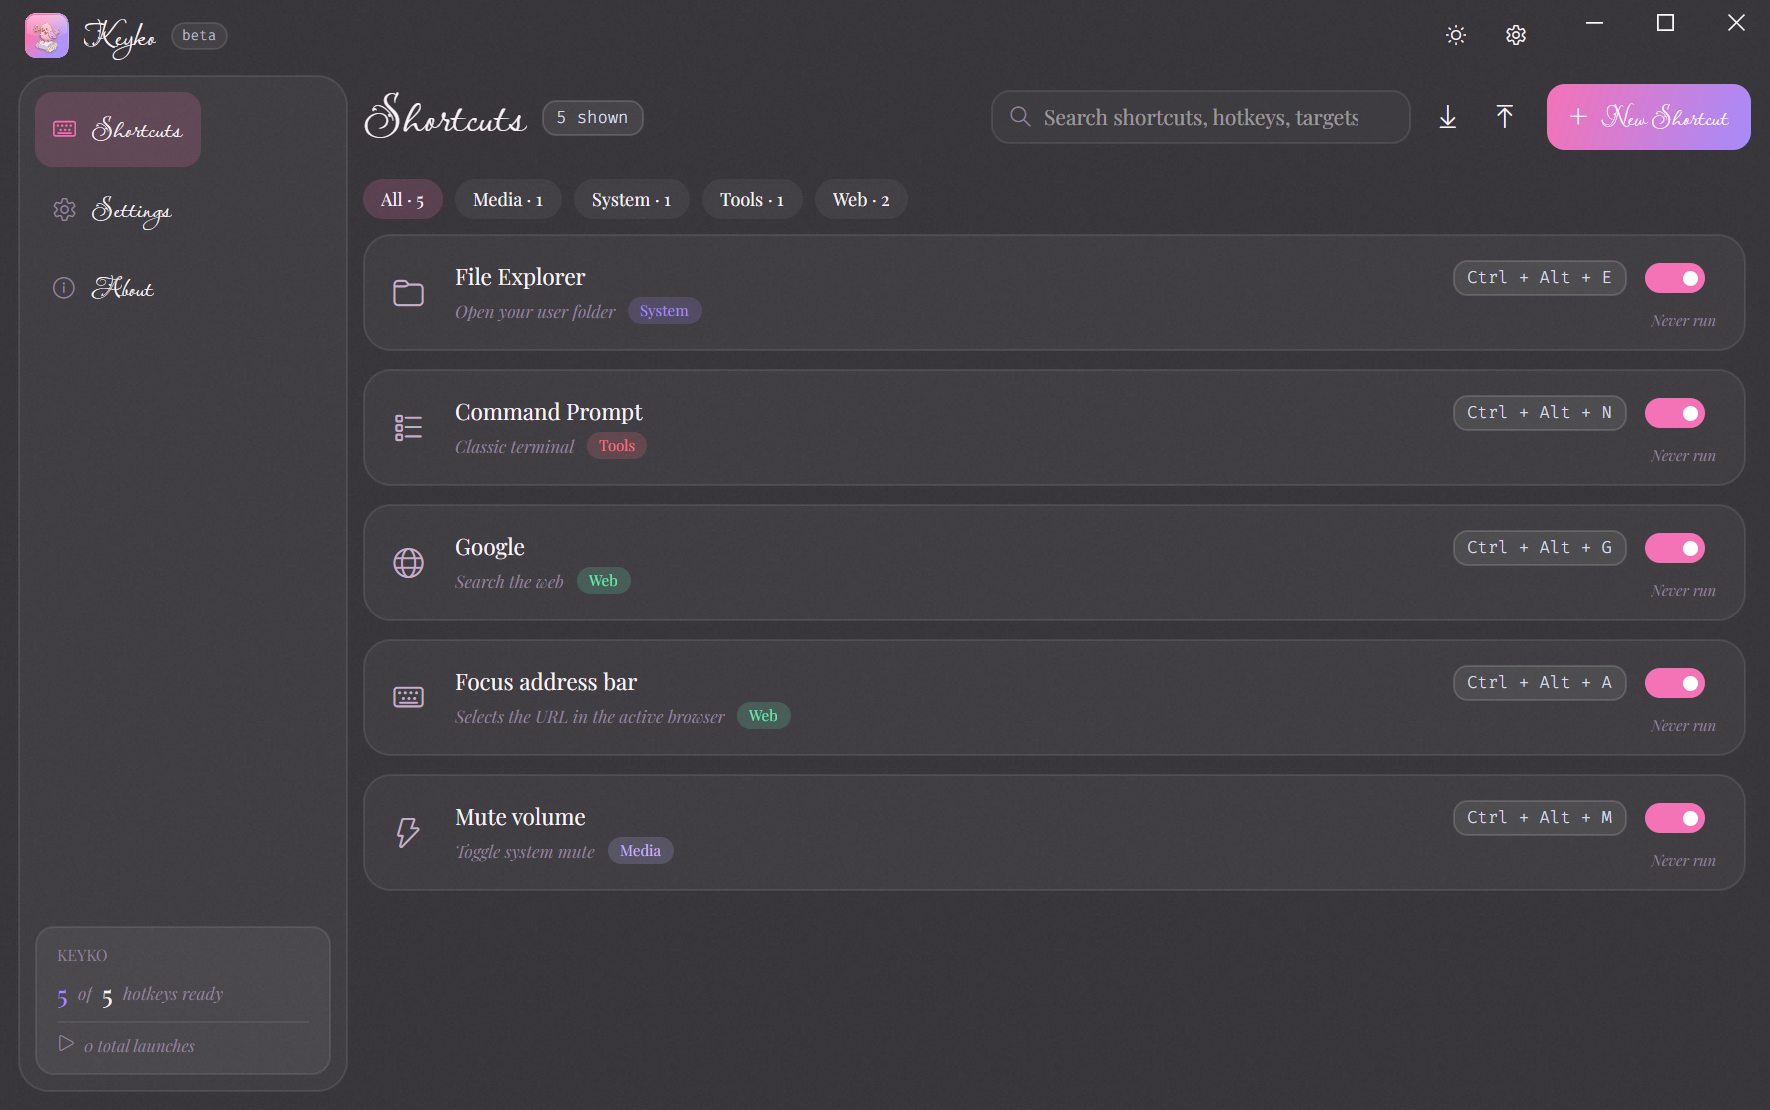
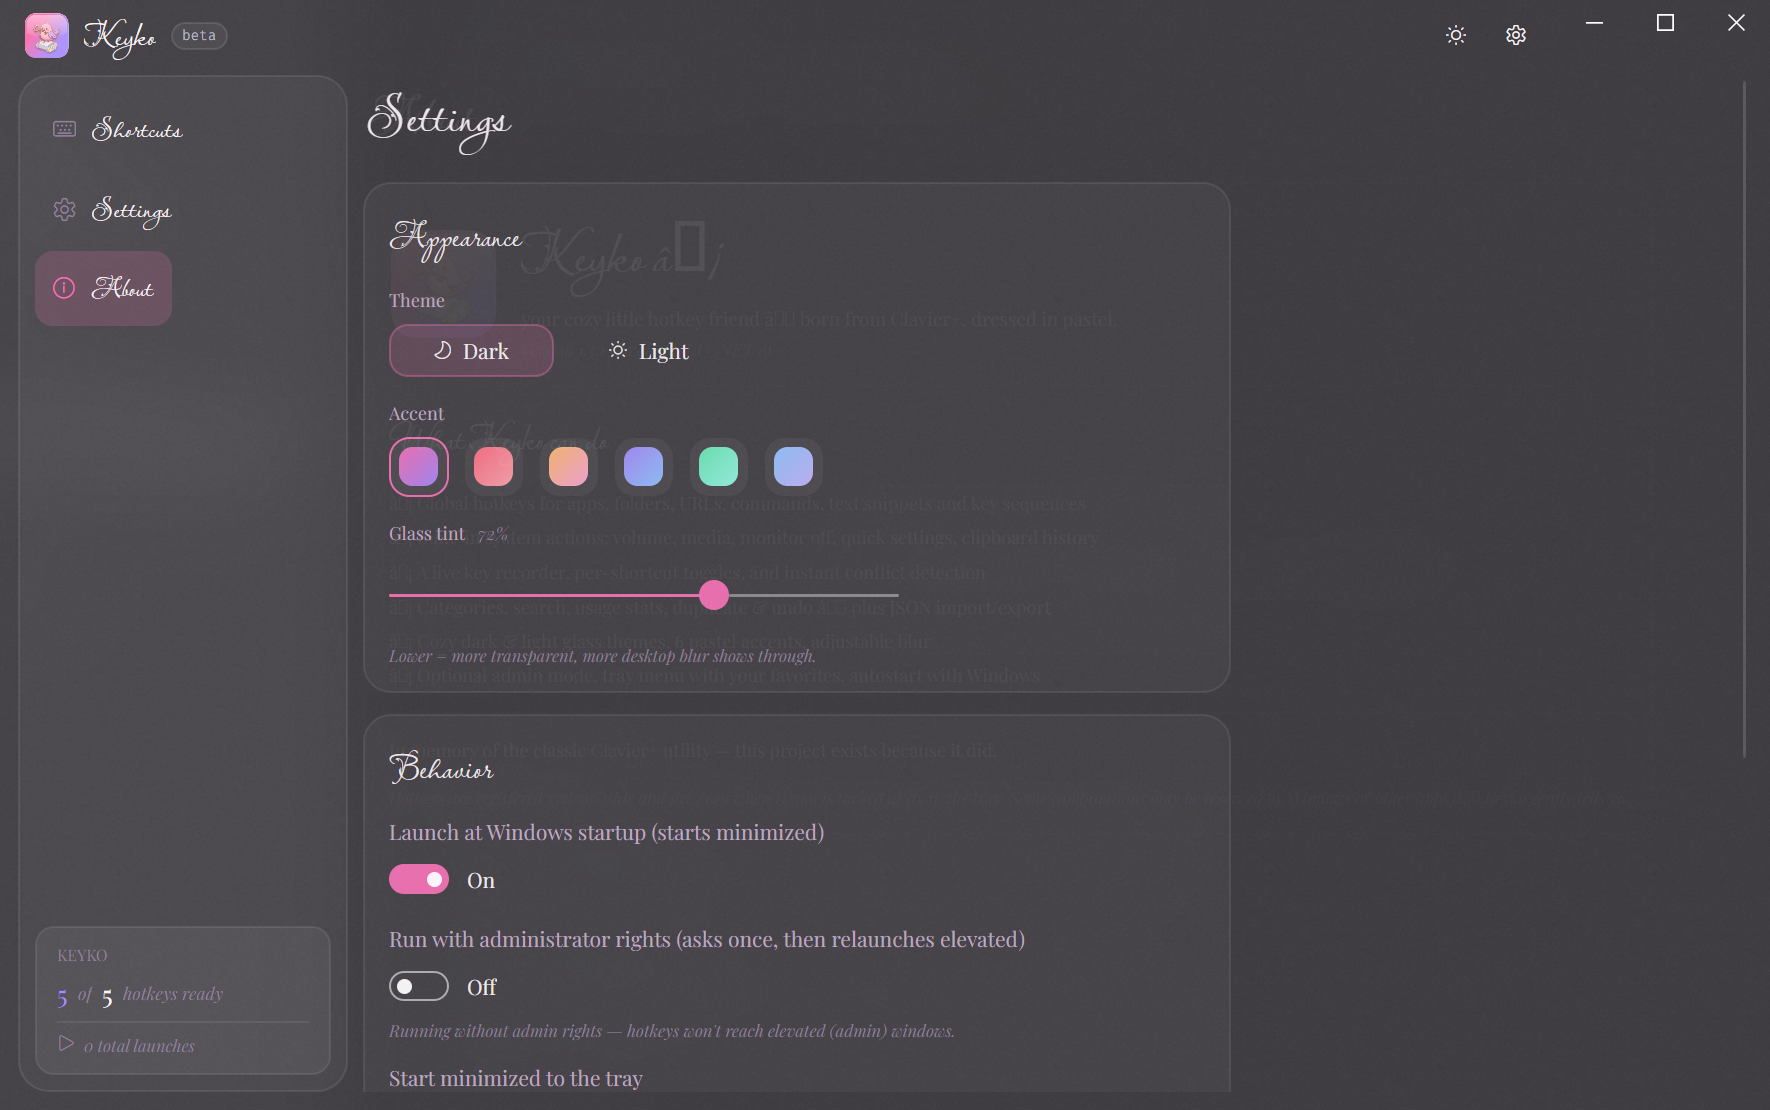
feat(v1.4): seasonal accents (Sakura/Frost/Sunset/Cappuccino), InsightsPage fix for nested row types

diff --git a/src/Keyko/Services/Theme.cs b/src/Keyko/Services/Theme.cs
@@ -22,6 +22,10 @@ public static class UiTheme
     public static readonly (string Name, string C1, string C2)[] Accents =
     {
         ("Blossom",  "#F472B6", "#A78BFA"),
+        ("Sakura",   "#F8BBD0", "#F5C5DA"),
+        ("Frost",    "#A5D8FF", "#C5F6FA"),
+        ("Sunset",   "#FF9A8B", "#FF6A88"),
+        ("Cappuccino", "#D5B895", "#A67B5B"),
         ("Rose",     "#FB7185", "#FDA4AF"),
         ("Peach",    "#FDBA74", "#F9A8D4"),
         ("Lavender", "#A78BFA", "#93C5FD"),
